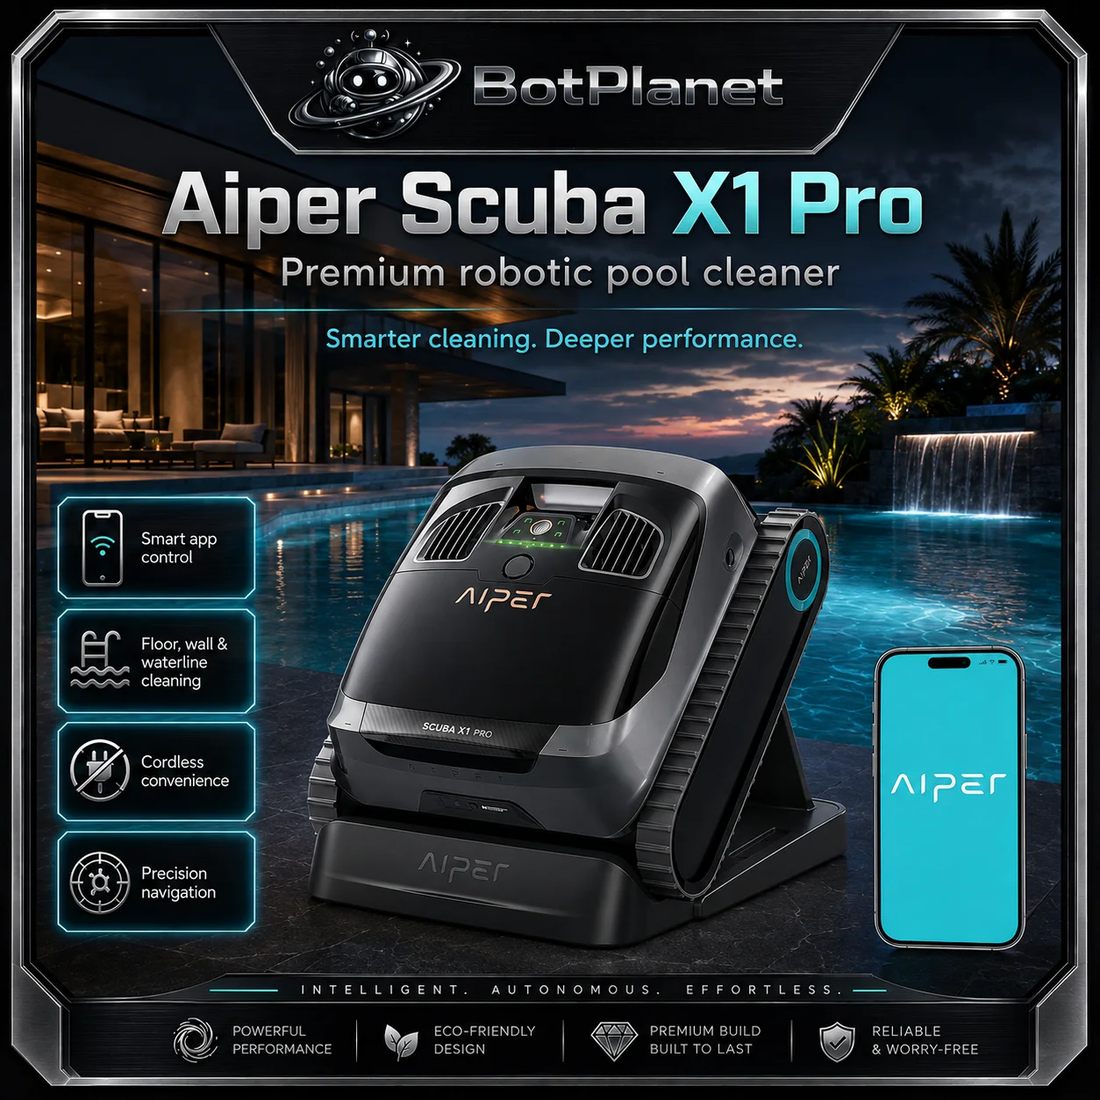
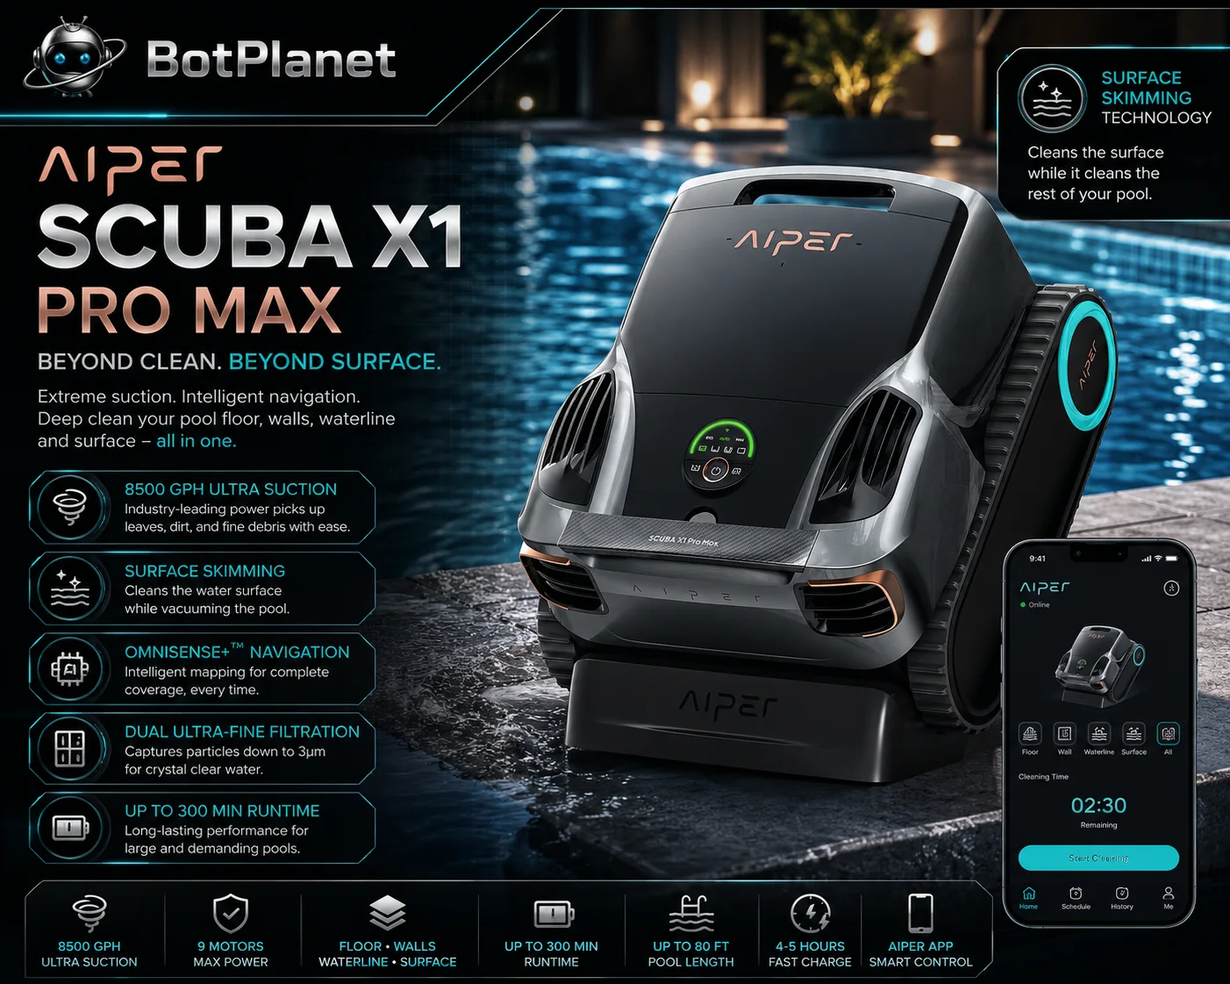
Move the record to the Scuba X1 Pro Max, and add max pool AREA to the schema
THE PRO MAX, VERIFIED BEFORE ACCEPTANCE
The owner supplied B0GMPWMS2H. This time the listing was read first, not after:
Brand AIPER, Manufacturer AIPER, Model Name "Scuba X1 Pro Max", Model Number
X9-Grey, and Aiper publishes a matching page titled "Scuba X1 Pro Max Pinnacle
In-Ground Pool Cleaner". The model name is written out in full, which is exactly
what the refused B0GVT2YPLB listing could not do.

The record has now held three machines in one day — X1 Essential, X1 Pro, X1 Pro
Max. Both retired URLs point straight at the final one; a chain of 301s is a
chain of chances to lose a visitor.

WHERE THE ARTWORK AND THE MAKER DISAGREE
The owner's artwork prints "UP TO 80 FT POOL LENGTH". Aiper's own comparison
table says 3230 sq.ft (300㎡), 100ft (30m). The manufacturer figure is recorded
and the disagreement is noted on the observation, because pool length is a hard
exclusion in the matcher — an 80 ft cap would hide this robot from exactly the
large-pool owners it is built for. Same for charge time: artwork "4-5 hours",
maker "4 Hours".

It also gains water_surface: Aiper sells it as a vacuum AND a skimmer, and the
Amazon title says so.

MAX POOL AREA IS NOW A REAL COLUMN
Migration 0005, plus the schema and seed. Manufacturers publish one measure or
the other: Aiper rates the Scuba V3 at 1,614 sq ft with no length at all, and
BuBlue rates the Bubot at 1,076 sq ft. Carrying only length forced a choice
between inventing a figure and letting a product be judged on nothing.
[…]

diff --git a/apps/web/src/content/evidence/verification.ts b/apps/web/src/content/evidence/verification.ts
@@ -738,66 +738,77 @@ const X1_PAGE = "https://aiper.com/us/aiper-scuba-series/aiper-scuba-x1";
 const X1_TITLE = "Aiper Scuba X1 Essential — official US product page (the base model, not the Pro)";
 const X1_MOVED = "2026-08-03";
 
+const X1PM_PAGE = "https://aiper.com/us/aiper-scuba-series/aiper-scuba-x1-pro-max";
+const X1PM_TITLE = "Aiper Scuba X1 Pro Max Pinnacle In-Ground Pool Cleaner — official US product page";
+const X1PM_READ = "2026-08-03";
+
 const aiperScubaX1: ProductVerification = {
   productId: "prod-aiper-scuba-x1",
-  checkedOn: X1_MOVED,
+  checkedOn: X1PM_READ,
   identity: {
-    brand: "Aiper",
-    canonicalName: "Aiper Scuba X1 Pro",
-    modelNumber: null,
-    modelNumberSource: null,
-    // No readable official page for the Pro: aiper.com/us/aiper-scuba-series/
-    // aiper-scuba-x1-pro returns 404. Recording the Essential's page here would
-    // attach the wrong machine's specification to this record.
-    officialProductPageUrl: null,
+    brand: "AIPER",
+    canonicalName: "Aiper Scuba X1 Pro Max",
+    modelNumber: "X9-Grey",
+    modelNumberSource: "https://www.amazon.com/Robotic-Skimmer-Ultra-fine-Filtration-Inground/dp/B0GMPWMS2H",
+    officialProductPageUrl: X1PM_PAGE,
     manual: null,
     identityIssue:
-      "THIS RECORD CHANGED MODEL ON 3 AUGUST 2026, at the owner's direction, from the Aiper Scuba X1 to the Aiper Scuba X1 Pro. Everything that follows must be read in that light. Aiper's Scuba line runs SE, S1, S1 Pro, X1 Essential, X1 Pro and X1 Pro Max with no published model number, so models separate only by page URL and product name — and the page this record was originally built against is titled 'Scuba X1 Essential', meaning the stored specification described the entry model. Those observations have been REMOVED rather than carried across: they are evidence about a different machine, and no observation for the Pro has been read. No official Aiper page for the Pro was reachable (404), and the Amazon listing the owner supplied returns a bot-mitigation page to server-side reads. The identity therefore rests on the owner's confirmation alone, and the Pro's specification is unverified.",
+      "THIS RECORD MOVED TWICE ON 3 AUGUST 2026: Scuba X1 → Scuba X1 Pro → Scuba X1 Pro Max, each time at the owner's direction. It is worth stating why, because the middle step is a caution. The page the original record was built against is titled 'Scuba X1 Essential' — the entry model. A listing supplied for the Pro was accepted on the strength of its URL reading /AIPER-Scuba-X1-Pro-Underwater/ and was WRONG: the listing's own fields give Model Name 'Scuba X1+Hy Pro', the base X1 bundled with a HydroComm Pro monitor. It was refused once read. The Pro Max listing names itself in its own details table — Brand AIPER, Model Name 'Scuba X1 Pro Max' — and Aiper publishes a matching page, so this identity rests on published fields rather than on a URL that looked like confirmation. Every observation the Essential's record held was removed rather than carried across.",
   },
   sourceChecks: [
-    { url: X1_PAGE, title: X1_TITLE, status: "ok" },
-    { url: "https://aiper.com/us/pages/user-manual", title: "Aiper manual index (attempted)", status: "unreadable", note: "HTTP 404." },
-    { url: "https://aiper.com/pages/user-manuals", title: "Aiper manual index (attempted, alternate path)", status: "unreadable", note: "HTTP 404." },
+    { url: X1PM_PAGE, title: X1PM_TITLE, status: "ok", note: "Read 3 August 2026. Comparison table's own column gives Pool Size 3230 sq.ft (300㎡) / 100ft (30m) in length." },
     {
-      url: "https://aiper.com/us/aiper-scuba-series/aiper-scuba-x1-pro",
-      title: "Aiper Scuba X1 Pro — official page (attempted)",
-      status: "unreadable",
-      note: "HTTP 404 on 3 August 2026. No official Aiper page for the Pro was found, which is why this record carries no product page URL.",
+      url: "https://www.amazon.com/Robotic-Skimmer-Ultra-fine-Filtration-Inground/dp/B0GMPWMS2H",
+      title: "Amazon US listing (B0GMPWMS2H) — Aiper Scuba X1 Pro Max",
+      status: "ok",
+      note: "Read 3 August 2026. Details table: Brand 'AIPER', Manufacturer 'AIPER', Model Name 'Scuba X1 Pro Max', Model Number 'X9-Grey', Power Source 'Battery Powered'. Title names the Pro Max and describes it as a skimmer as well as a vacuum.",
     },
     {
-      url: "https://www.amazon.com/AIPER-High-Power-Horizontal-Waterline-Scrubbing/dp/B0F9WN961G",
-      title: "Amazon US listing (B0F9WN961G) — retired, and it had nothing to buy",
-      status: "not_rechecked",
-      note: "Was the destination until 3 August 2026. It never confirmed its own model — title 'AIPER Pool Cleaner', model name and model number both 'Blue' — and the SerpApi read of 31 July found no buying option at all, so the buy button led to a listing nobody could purchase from.",
+      url: "https://aiper.com/us/aiper-scuba-series/aiper-scuba-x1",
+      title: "Aiper Scuba X1 Essential — the page this record was ORIGINALLY built against",
+      status: "ok",
+      note: "Titled 'Scuba X1 Essential In-Ground Pool Cleaner'. Kept to show what the earlier observations described, and why they could not follow the record to the Pro Max.",
     },
     {
       url: "https://www.amazon.com/AIPER-Scuba-X1-Pro-Underwater/dp/B0GVT2YPLB",
-      title: "Amazon US listing (B0GVT2YPLB) — current destination, supplied by the owner",
-      status: "not_rechecked",
-      note: "Supplied and confirmed by the owner on 3 August 2026. Not independently read: Amazon returns a bot-mitigation page to server-side requests. The listing URL names the X1 Pro and the owner's artwork shows 'SCUBA X1 PRO' on the machine's body, which is consistent, but neither is a reading of the listing itself.",
+      title: "Amazon US listing (B0GVT2YPLB) — REFUSED, a bundle of the base X1",
+      status: "ok",
+      note: "Model Name and Model Number both 'Scuba X1+Hy Pro'; title 'AIPER Scuba X1 Robotic Pool Cleaner with HydroComm Pro Smart Pool Monitor'. Briefly accepted on 3 August on the strength of its URL slug, then refused on its own fields. Recorded so the mistake cannot be repeated.",
     },
   ],
-  /* Deliberately empty. Every observation previously here was read from the
-     Scuba X1 Essential's page and is evidence about a different machine. They
-     were removed when this record moved to the Pro rather than relabelled —
-     carrying them across is exactly the substitution this registry exists to
-     prevent. Nothing on this product may be stated as fact until a readable
-     source for the Pro is found. */
-  observations: [],
+  observations: [
+    { field: "powerType", value: "cordless (battery)", sourceUrl: X1PM_PAGE, sourceTitle: X1PM_TITLE, observedOn: X1PM_READ },
+    { field: "poolTypes", value: "In-ground", sourceUrl: X1PM_PAGE, sourceTitle: X1PM_TITLE, observedOn: X1PM_READ },
+    {
+      field: "poolSizeSuitability",
+      value: "3230 sq.ft (300㎡), 100ft (30m) in length",
+      sourceUrl: X1PM_PAGE,
+      sourceTitle: X1PM_TITLE,
+      observedOn: X1PM_READ,
+      note: "The owner's artwork prints 'UP TO 80 FT POOL LENGTH'. Aiper's own comparison table says 100ft (30m). The manufacturer figure is recorded; the artwork understates it and should be corrected if redrawn.",
+    },
+    { field: "surfaceTypes", value: "Concrete, fibreglass, vinyl, tiles", sourceUrl: X1PM_PAGE, sourceTitle: X1PM_TITLE, observedOn: X1PM_READ },
+    { field: "surfacesCleaned", value: "floor, walls, waterline and water surface", sourceUrl: X1PM_PAGE, sourceTitle: X1PM_TITLE, observedOn: X1PM_READ, note: "Aiper markets it as a vacuum and a skimmer in one; the Amazon title says 'Pool Robot Vacuum & Robotic Pool Skimmer'." },
+    { field: "suctionRate", value: "8500 GPH (32000 LPH)", sourceUrl: X1PM_PAGE, sourceTitle: X1PM_TITLE, observedOn: X1PM_READ },
+    { field: "filtration", value: "Dual ultra-fine, 180μm/3μm", sourceUrl: X1PM_PAGE, sourceTitle: X1PM_TITLE, observedOn: X1PM_READ },
+    { field: "filtrationMicrons", value: "3μm", sourceUrl: X1PM_PAGE, sourceTitle: X1PM_TITLE, observedOn: X1PM_READ },
+    { field: "filterCapacityL", value: "Top Load 5L", sourceUrl: X1PM_PAGE, sourceTitle: X1PM_TITLE, observedOn: X1PM_READ },
+    { field: "runtimeMins", value: "Up to 300 minutes / 5 hours floor; up to 600 minutes / 10 hours surface skimming", sourceUrl: X1PM_PAGE, sourceTitle: X1PM_TITLE, observedOn: X1PM_READ, note: "Two mode figures; there is no single whole-machine runtime." },
+    { field: "chargeTimeHrs", value: "4 hours", sourceUrl: X1PM_PAGE, sourceTitle: X1PM_TITLE, observedOn: X1PM_READ, note: "The owner's artwork says '4-5 hours'. Aiper's table says 4." },
+    { field: "navigation", value: "FlexiPath™ 2.0 with OmniSense+™ mapping", sourceUrl: X1PM_PAGE, sourceTitle: X1PM_TITLE, observedOn: X1PM_READ },
+    { field: "appSupport", value: "Aiper app — complete app control", sourceUrl: X1PM_PAGE, sourceTitle: X1PM_TITLE, observedOn: X1PM_READ },
+    { field: "dimensions", value: '15"L x 11"W x 17"H', sourceUrl: "https://www.amazon.com/Robotic-Skimmer-Ultra-fine-Filtration-Inground/dp/B0GMPWMS2H", sourceTitle: "Amazon US listing (B0GMPWMS2H)", observedOn: X1PM_READ, note: "Retailer-stated, not manufacturer-stated." },
+  ],
   notPubliclyStated: [
-    { field: "warranty", checked: [X1_PAGE], note: "No warranty term stated anywhere on the official product page." },
-    { field: "weightLbs", checked: [X1_PAGE], note: "Not published." },
-    { field: "dimensions", checked: [X1_PAGE], note: "Not published." },
-    { field: "batteryCapacity", checked: [X1_PAGE], note: "Runtime and charge time are stated; cell capacity is not." },
-    { field: "modelNumber", checked: [X1_PAGE], note: "No SKU published." },
-    { field: "manualUrl", checked: [X1_PAGE, "https://aiper.com/pages/user-manuals"], note: "A printed manual is listed in the box, but no downloadable manual was found on the official domain." },
-    { field: "wifi", checked: [X1_PAGE], note: "App control is stated; connection type is not." },
-    { field: "remoteControl", checked: [X1_PAGE], note: "Not mentioned." },
-    { field: "maxDepthFt", checked: [X1_PAGE], note: "Not published." },
-    { field: "minDepthFt", checked: [X1_PAGE], note: "Not published." },
-    { field: "suctionRate", checked: [X1_PAGE], note: "Not published for this model." },
-    { field: "filterCapacityL", checked: [X1_PAGE], note: "Not published." },
-    { field: "cleaningModes", checked: [X1_PAGE], note: "Coverage is described; selectable modes are not enumerated." },
+    { field: "weightLbs", checked: [X1PM_PAGE], note: "Not published on the product page." },
+    { field: "batteryCapacity", checked: [X1PM_PAGE], note: "Runtime and charge time are stated; cell capacity is not." },
+    { field: "warranty", checked: [X1PM_PAGE], note: "No warranty term stated on the product page." },
+    { field: "maxDepthFt", checked: [X1PM_PAGE], note: "Not published." },
+    { field: "minDepthFt", checked: [X1PM_PAGE], note: "Not published." },
+    { field: "cleaningModes", checked: [X1PM_PAGE], note: "Floor, wall, waterline, surface and All are shown in the app, but no enumerated mode list is published." },
+    { field: "wifi", checked: [X1PM_PAGE], note: "App control is stated; connection type is not." },
+    { field: "remoteControl", checked: [X1PM_PAGE], note: "Not mentioned either way." },
+    { field: "includedAccessories", checked: [X1PM_PAGE], note: "A charging dock is shown; no box-contents list is published." },
   ],
 };
 

diff --git a/apps/web/src/content/commerce/destinations.ts b/apps/web/src/content/commerce/destinations.ts
@@ -50,7 +50,12 @@ const AMAZON_ASINS: { productId: string; asin: string; sourceUrl: string }[] = [
   // bot-mitigation page to server-side reads. The previous identity check is
   // kept below, and now applies only to the ASIN it actually examined.
   { productId: "prod-beatbot-aquasense-2-ultra", asin: "B0G7B6F5FZ", sourceUrl: "Owner-confirmed 2026-08-03: https://www.amazon.com/Beatbot-AquaSense-Ultra-Cordless-Clarification/dp/B0G7B6F5FZ" },
-  // prod-aiper-scuba-x1 HAS NO ASIN. It carried B0GVT2YPLB for a few hours on
+  // The Scuba X1 Pro Max, supplied by the owner and READ before acceptance this
+  // time — Brand AIPER, Model Name "Scuba X1 Pro Max", Model Number X9-Grey.
+  // It replaces a listing that was accepted on its URL alone and turned out to
+  // be a different machine; see the refusal in REJECTED_CANDIDATES.
+  { productId: "prod-aiper-scuba-x1", asin: "B0GMPWMS2H", sourceUrl: "Owner-supplied 2026-08-03, read the same day: https://www.amazon.com/Robotic-Skimmer-Ultra-fine-Filtration-Inground/dp/B0GMPWMS2H" },
+  // NOTE ON B0GVT2YPLB, which this replaces. It carried that ASIN for minutes on
   // 3 August 2026 and that was MY ERROR: I read "Scuba-X1-Pro" in the listing
   // URL and took it for the Scuba X1 Pro. It is not. Reading the listing itself
   // shows Model Name and Model Number both "Scuba X1+Hy Pro", and a title of
@@ -119,6 +124,13 @@ interface IdentityCheck {
 }
 
 export const IDENTITY_CHECKS: Record<string, IdentityCheck> = {
+  "prod-aiper-scuba-x1": {
+    asin: "B0GMPWMS2H",
+    confirmed: true,
+    evidence:
+      "Details table gives Brand 'AIPER', Manufacturer 'AIPER', Model Name 'Scuba X1 Pro Max', Model Number 'X9-Grey', Power Source 'Battery Powered'; canonical URL /Robotic-Skimmer-Ultra-fine-Filtration-Inground/. Title: 'Aiper Scuba X1 Pro Max Pool Robot Vacuum & Robotic Pool Skimmer with 8,500 GPH Suction'. Aiper publishes a matching page at /us/aiper-scuba-series/aiper-scuba-x1-pro-max titled 'Scuba X1 Pro Max Pinnacle In-Ground Pool Cleaner'. The model name is written out in full, which is what separates it from the Pro and from the X1+HydroComm bundle that was refused.",
+    checkedOn: "2026-08-03",
+  },
   // Read on 3 August 2026. This record now holds a BuBlue, not a Dolphin —
   // see content/product-names.ts and the verification record for the move.
   "prod-dolphin-premier": {
@@ -173,8 +185,9 @@ export const IDENTITY_CHECKS: Record<string, IdentityCheck> = {
   // RETIRED TWICE OVER: this examined B0F9WN961G, which is no longer the
   // destination, for the Scuba X1, which is no longer the model this record
   // holds. Kept because "the listing we used to point at could not name itself
-  // and had nothing to buy" is the reason the swap happened.
-  "prod-aiper-scuba-x1": {
+  // and had nothing to buy" is the reason the swap happened. Keyed separately
+  // from the live check above so both readings survive.
+  "retired-prod-aiper-scuba-x1-B0F9WN961G": {
     asin: "B0F9WN961G",
     confirmed: false,
     evidence:
@@ -218,11 +231,9 @@ const NO_AMAZON_DESTINATION = [
   // Aiper Scuba S1 was here as well, every candidate having been a sibling.
   // The owner supplied a listing that names the S1 outright.
   //
-  // The Scuba X1 Pro joins the list on 3 August 2026 — see the note in
-  // AMAZON_ASINS. It is the only product here for want of a CORRECT listing
-  // rather than any listing: the one supplied turned out to be a bundle of the
-  // base X1, and shipping it would have sent buyers to the wrong machine.
-  "prod-aiper-scuba-x1",
+  // The Scuba X1 Pro was here for part of 3 August 2026, for want of a CORRECT
+  // listing rather than any listing. It left the same day: the owner supplied
+  // the Pro Max, whose listing names itself in its own details table.
 ];
 
 export const DESTINATIONS: ProductDestination[] = [

diff --git a/apps/web/test/offers.test.ts b/apps/web/test/offers.test.ts
@@ -150,17 +150,16 @@ describe("exact-product destinations", () => {
   it("captures an ASIN for five products and refuses to invent the rest", () => {
     const exact = DESTINATIONS.filter((d) => d.confidence === "researched_exact" || d.confidence === "verified_exact");
     const search = DESTINATIONS.filter((d) => d.confidence === "search_only");
-    // Eleven exact, one search-only. Every product reached a specific ASIN on
-    // 3 August 2026 — and one was then taken BACK OFF the same day. The listing
-    // supplied for the Scuba X1 Pro turned out to be the base X1 bundled with a
-    // HydroComm Pro monitor, so it was refused and the product returned to a
-    // search fallback rather than sending buyers to the wrong machine.
+    // Twelve exact, nothing search-only. One of them took three attempts in a
+    // single day: a listing accepted on its URL slug turned out to be the base
+    // X1 bundled with a monitor, was refused once read, and was replaced by a
+    // Pro Max listing that names itself in its own details table.
     //
-    // A search fallback is the honest answer when no correct listing is held.
-    // If this changes, the count is what should change — never the classification.
-    expect(exact).toHaveLength(11);
-    expect(search).toHaveLength(1);
-    expect(search[0].productId).toBe("prod-aiper-scuba-x1");
+    // A search fallback remains the honest answer whenever no correct listing
+    // is held. If that happens again the count is what should change — never
+    // the classification.
+    expect(exact).toHaveLength(12);
+    expect(search).toHaveLength(0);
     for (const d of exact) {
       expect(d.identifierKind).toBe("asin");
       expect(d.retailerProductId).toMatch(/^B0[A-Z0-9]{8}$/);
@@ -194,14 +193,16 @@ describe("exact-product destinations", () => {
     // The Aiper listing publishes "Blue" as its model name and mentions four
     // Scuba models in one comparison block. A page that cannot name its own
     // model cannot confirm one.
-    const aiper = IDENTITY_CHECKS["prod-aiper-scuba-x1"];
+    const aiper = IDENTITY_CHECKS["retired-prod-aiper-scuba-x1-B0F9WN961G"];
     expect(aiper.confirmed).toBe(false);
-    // And it now has no ASIN at all: the replacement supplied on 3 August was a
-    // bundle of the base X1, refused on the listing's own model-name field.
-    expect(destinationFor("prod-aiper-scuba-x1")!.confidence).toBe("search_only");
+    // A second listing for the same product was refused on the same principle:
+    // its URL said "Scuba-X1-Pro", its own fields said "Scuba X1+Hy Pro".
     const refusal = REJECTED_CANDIDATES.find((c) => c.candidate.includes("B0GVT2YPLB"))!;
     expect(refusal.rule).toBe("sibling_model");
     expect(refusal.reason).toContain("Scuba X1+Hy Pro");
+    // What the product carries now names itself in full, in its own details table.
+    expect(destinationFor("prod-aiper-scuba-x1")!.retailerProductId).toBe("B0GMPWMS2H");
+    expect(IDENTITY_CHECKS["prod-aiper-scuba-x1"].evidence).toContain("Scuba X1 Pro Max");
   });
 
   it("names the Job 8 exact model on every destination", () => {

diff --git a/apps/web/src/content/product-names.ts b/apps/web/src/content/product-names.ts
@@ -30,13 +30,25 @@ export interface RetiredSlug {
 }
 
 export const RETIRED_SLUGS: Record<string, RetiredSlug> = {
+  /* Both of these point at the FINAL destination, not at each other. The
+     record moved twice in one day — X1 → X1 Pro → X1 Pro Max — and a chain of
+     301s is a chain of chances to lose a visitor. Each retired URL gets there
+     in a single hop. */
   "aiper-scuba-x1": {
-    to: "aiper-scuba-x1-pro",
+    to: "aiper-scuba-x1-pro-max",
     wasNamed: "Aiper Scuba X1",
-    isNamed: "Aiper Scuba X1 Pro",
+    isNamed: "Aiper Scuba X1 Pro Max",
     changedOn: "2026-08-03",
     reason:
-      "Aiper's own page for the URL this record was built against is titled 'Scuba X1 Essential' — the entry model of an X1 Essential / X1 Pro / X1 Pro Max family — and its Amazon listing had no buying option at all. The owner supplied the Pro's listing and artwork and confirmed the Pro is what BotPlanet should sell. Every observation the record held was read from the Essential's page and was removed rather than carried across.",
+      "Aiper's own page for the URL this record was built against is titled 'Scuba X1 Essential' — the entry model of an X1 Essential / X1 Pro / X1 Pro Max family — and its Amazon listing had no buying option at all. The owner supplied the Pro's listing and artwork and confirmed the Pro is what BotPlanet should sell. The record then moved again the same day, to the Pro Max, when the owner supplied that listing instead. Every observation the record held was read from the Essential's page and was removed rather than carried across.",
+  },
+  "aiper-scuba-x1-pro": {
+    to: "aiper-scuba-x1-pro-max",
+    wasNamed: "Aiper Scuba X1 Pro",
+    isNamed: "Aiper Scuba X1 Pro Max",
+    changedOn: "2026-08-03",
+    reason:
+      "Held the Scuba X1 Pro for part of one day. The only listing supplied for the Pro turned out to be the base X1 bundled with a HydroComm Pro monitor, so the Pro never had a buy link; the owner then supplied the Pro Max, whose Amazon listing names itself unambiguously (Model Name \"Scuba X1 Pro Max\"). This URL was live briefly and is redirected rather than left to 404.",
   },
   "dolphin-premier": {
     to: "bublue-bubot-800p",

diff --git a/packages/db/seed/pool/catalogue.ts b/packages/db/seed/pool/catalogue.ts
@@ -62,22 +62,26 @@ export const productRows: (typeof products.$inferInsert)[] = [
     status: "published",
   },
   {
-    // Moved from the Scuba X1 Essential to the X1 Pro on 2026-08-03 at the
-    // owner's direction. The ID is the stable join key and does not move with
+    // Moved from the Scuba X1 Essential to the X1 Pro and then to the X1 Pro
+    // Max on 2026-08-03, both at the owner's direction. The ID is the stable join key and does not move with
     // the model; the old slug redirects — see apps/web/src/content/product-names.ts.
     id: "prod-aiper-scuba-x1",
-    slug: "aiper-scuba-x1-pro",
+    slug: "aiper-scuba-x1-pro-max",
     brandId: "brand-aiper",
     categoryId: "cat-pool-cleaners",
     productClass: "full_cleaner",
-    name: "Aiper Scuba X1 Pro",
-    model: "Scuba X1 Pro",
+    name: "Aiper Scuba X1 Pro Max",
+    model: "Scuba X1 Pro Max",
     environments: ["in_ground"],
-    cleans: ["floor", "walls", "waterline"],
+    // Aiper markets it as a vacuum AND a skimmer, so it cleans the surface too.
+    cleans: ["floor", "walls", "waterline", "water_surface"],
     powerType: "cordless",
     priceTier: "premium",
-    maxPoolLengthFt: null,
-    specsJson: { note: "Cordless; strong on algae.", snapshotDate: SNAPSHOT_DATE },
+    // Aiper's own comparison table: 3230 sq.ft (300㎡), 100ft (30m) in length.
+    // The owner's artwork prints 80 ft; the manufacturer figure is used.
+    maxPoolLengthFt: 100,
+    maxPoolAreaSqFt: 3230,
+    specsJson: { note: "Cordless; vacuums and skims. 8500 GPH.", snapshotDate: SNAPSHOT_DATE },
     status: "published",
   },
   {
@@ -162,6 +166,9 @@ export const productRows: (typeof products.$inferInsert)[] = [
     powerType: "corded",
     priceTier: "mid",
     maxPoolLengthFt: null,
+    // Corded, but the cord is 50 ft and that is NOT a pool-length rating.
+    // BuBlue publishes an area only.
+    maxPoolAreaSqFt: 1076,
     specsJson: { snapshotDate: SNAPSHOT_DATE },
     status: "published",
   },

diff --git a/apps/web/src/content/media/assets.ts b/apps/web/src/content/media/assets.ts
@@ -294,11 +294,11 @@ const OWNER_ARTWORK: OwnerArtwork[] = [
   {
     slug: "aiper-scuba-x1",
     file: "aiper-scuba-x1.webp",
-    checksum: "sha256:cb85855c187847ea25c9aef6fdcc50c65a7bb05d9f4cf715968f224c2d5e62d9",
-    width: 1254,
-    height: 1254,
+    checksum: "sha256:b61a0d6a69177adb170f8550f7f21a9c6ba10857f6c7f61b943c3f0de44ec496",
+    width: 1402,
+    height: 1122,
     scene:
-      "the black cleaner upright on its charging stand beside a lit pool and waterfall at dusk, 'SCUBA X1 PRO' printed on its front, with a phone showing the Aiper app and callouts for app control, floor, wall and waterline cleaning, cordless running and navigation",
+      "the grey and black cleaner on its dock at the poolside at night, 'SCUBA X1 Pro Max' printed on its front, with a phone showing the Aiper app and callouts for suction, surface skimming, navigation, filtration and runtime",
   },
   {
     slug: "aiper-seagull-se",

diff --git a/packages/db/src/schema/catalogue.ts b/packages/db/src/schema/catalogue.ts
@@ -43,7 +43,12 @@ export const products = sqliteTable("products", {
   cleans: text("cleans", { mode: "json" }).$type<CleaningSurface[]>().notNull(),
   powerType: text("power_type").$type<PowerType>().notNull(),
   priceTier: text("price_tier").notNull(), // budget | mid | premium | ultra
+  /* Manufacturers do not agree on which limit to publish. Aiper states an area
+     for the Scuba V3 and no length at all; Maytronics states a length. Both
+     columns exist so neither has to be invented, and the matcher treats a
+     missing pair as "unknown" rather than "unsuitable". */
   maxPoolLengthFt: integer("max_pool_length_ft"),
+  maxPoolAreaSqFt: integer("max_pool_area_sqft"),
 
   specsJson: text("specs_json", { mode: "json" }).$type<Record<string, unknown>>(),
 
